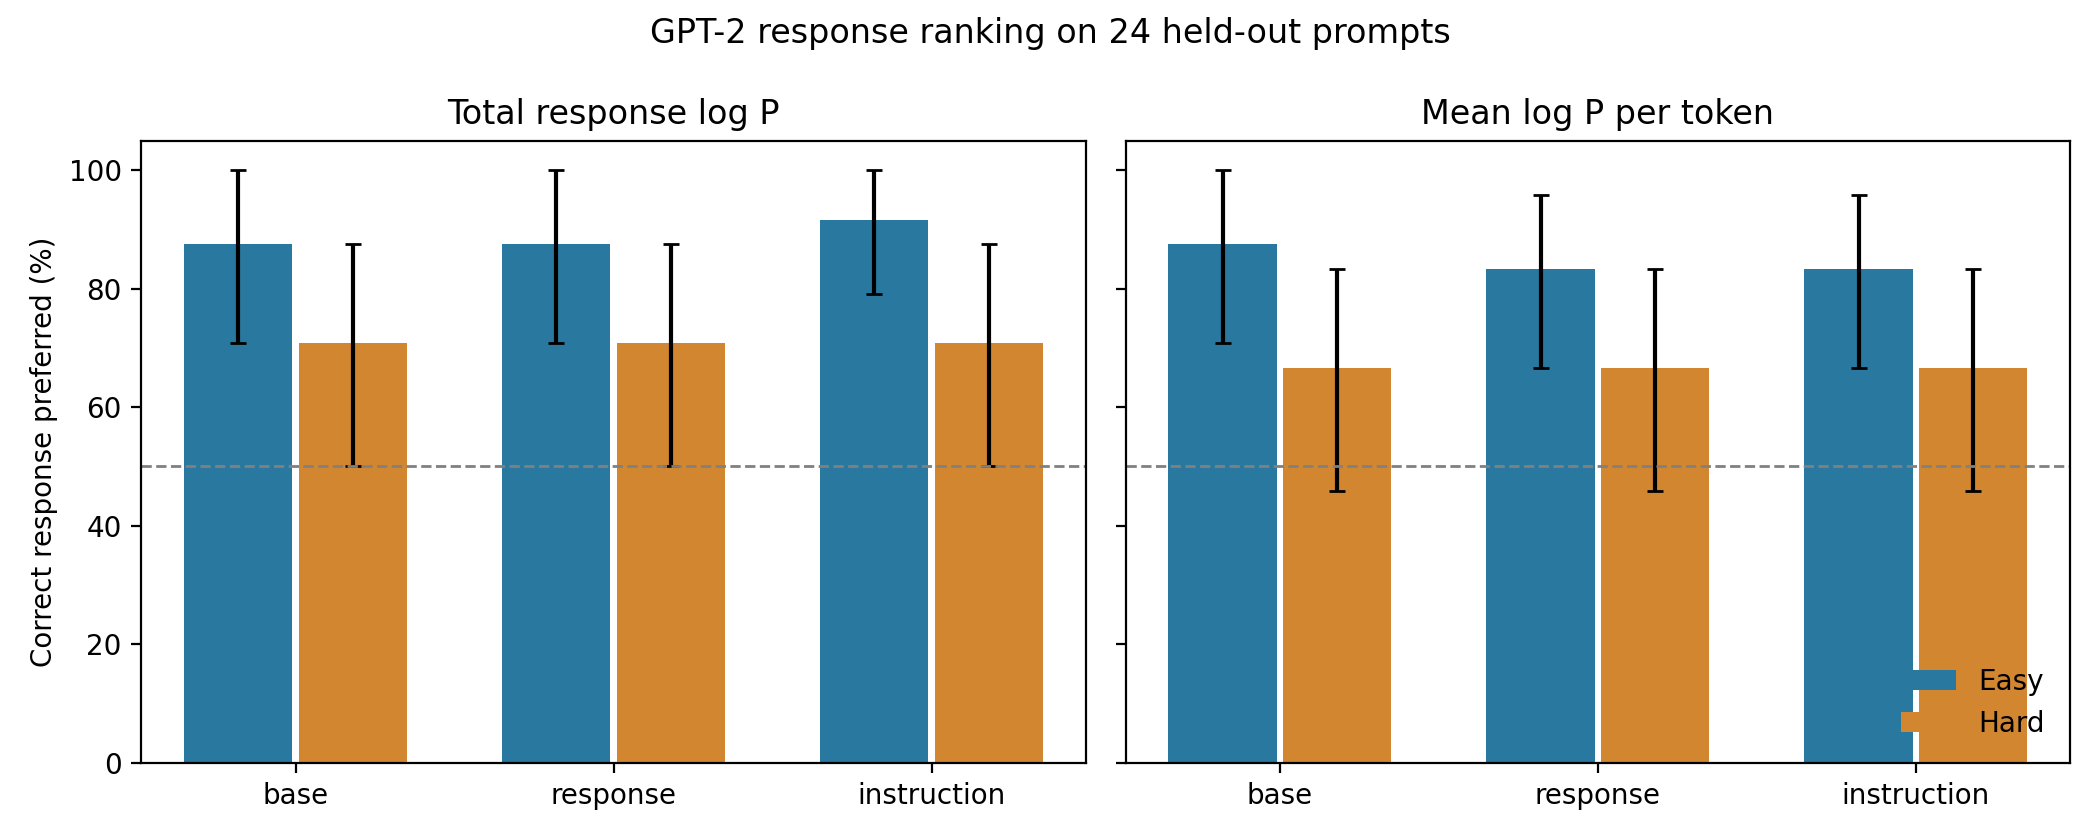
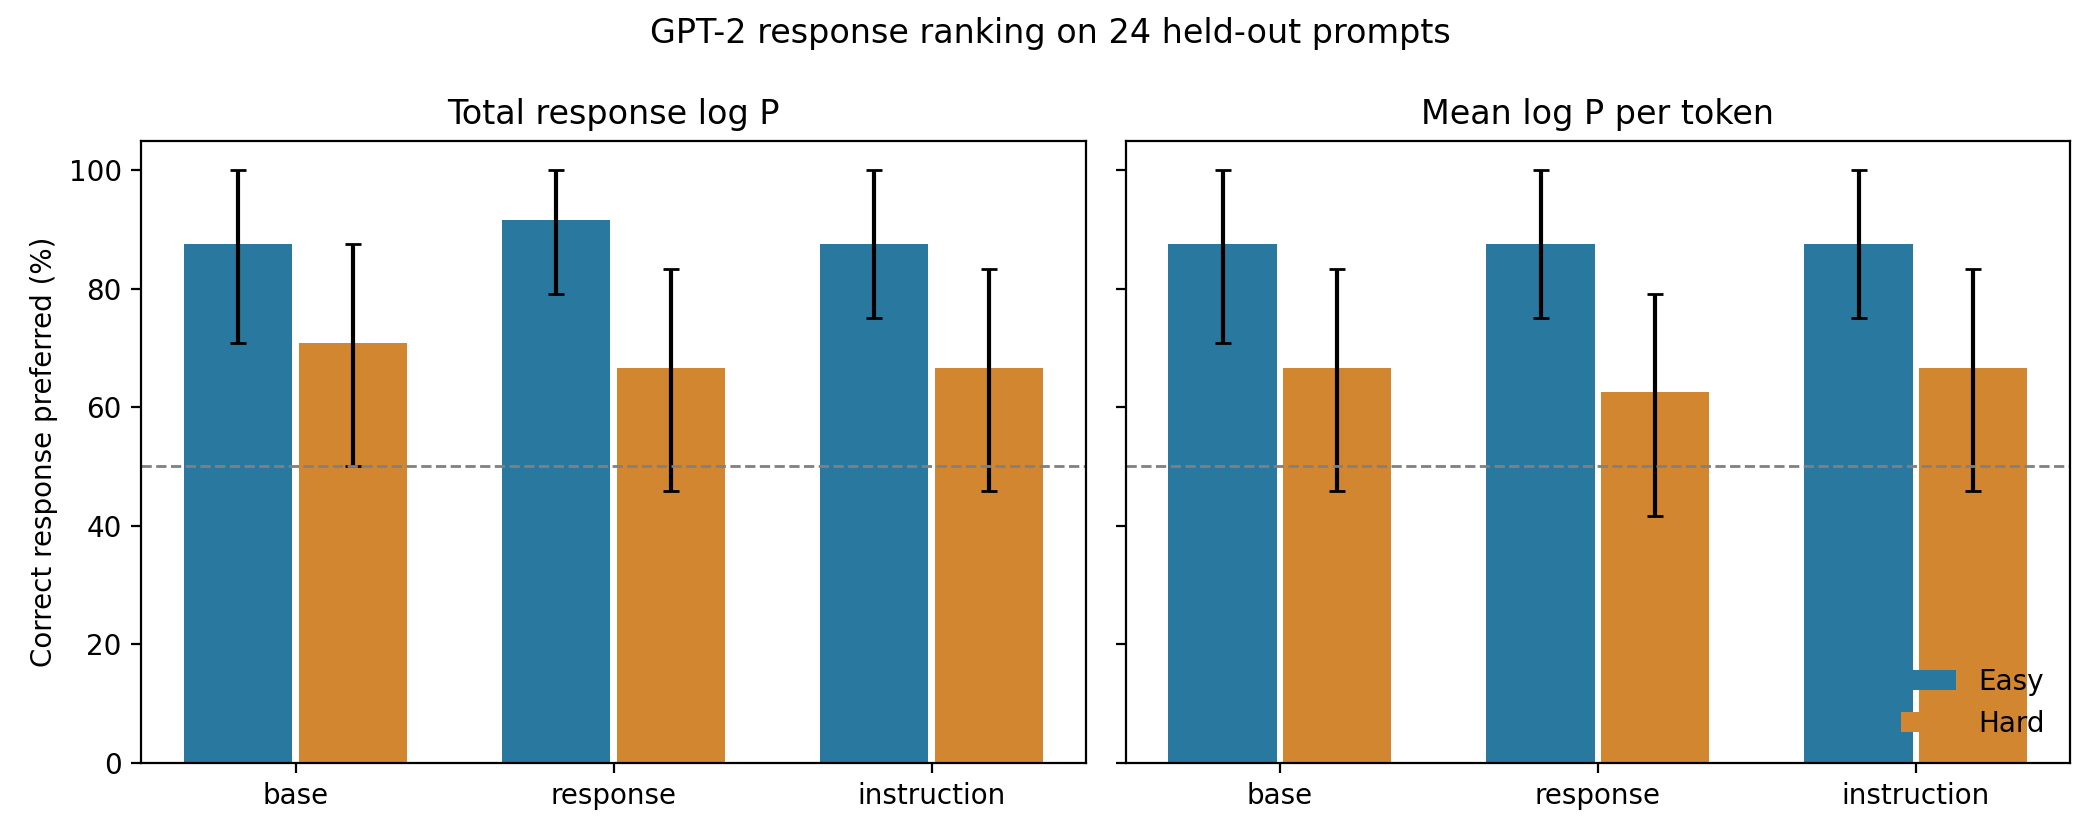
exp: rerun tuning with more updates

diff --git a/probe/report.py b/probe/report.py
@@ -88,18 +88,30 @@ def report(cfg, root, final=False):
     require(not final or ready, "Final reporting requires all three models and approved negatives")
     status = "LLM-adjudicated ranking result" if ready else "PRELIMINARY — ranking evaluation is incomplete"
     output = root / "report"
+    training = {}
+    for condition in ["response", "instruction"]:
+        selection = root / "runs" / condition / "best" / "selection.json"
+        metadata = root / "runs" / condition / "training.json"
+        if selection.exists() and metadata.exists():
+            selected = read_json(selection)
+            run = read_json(metadata)
+            training[condition] = {"updates_completed": run["updates"],
+                                   "selected_update": selected["update"],
+                                   "selected_epoch": selected["epoch"],
+                                   "validation_response_nll": selected["validation_response_nll"]}
     write_json(output / "results.json", {"status": status, "ranking_complete": ready, "experiment_id": manifest["experiment_id"],
-                                         "models": results, "paired_differences": differences,
+                                         "models": results, "training": training, "paired_differences": differences,
                                          "negative_review_hash": digest(read_jsonl(root / "review" / "negatives.jsonl")),
                                          "negative_adjudication_type": review_type,
                                          "negative_adjudication_complete": negatives_complete})
     header = ["# GPT-2 instruction–response matching", "", status, "",
-              "| Checkpoint | Easy: total log P | Hard: total log P | Easy: per token | Hard: per token |",
-              "|---|---|---|---|---|"]
+              "| Checkpoint | Selected update | Easy: total log P | Hard: total log P | Easy: per token | Hard: per token |",
+              "|---|---:|---|---|---|---|"]
     for condition in CONDITIONS:
         r = results.get(condition, {"ranking": {}})
         values = [formatted(r["ranking"].get(key)) for key in ["easy:conditional.sum", "hard:conditional.sum", "easy:conditional.mean", "hard:conditional.mean"]]
-        header.append("| " + " | ".join([condition] + values) + " |")
+        selected_update = str(training[condition]["selected_update"]) if condition in training else "—"
+        header.append("| " + " | ".join([condition, selected_update] + values) + " |")
     split_counts = manifest["split_counts"]
     splits = f"{split_counts['train']} train, {split_counts['validation']} validation, {split_counts['test']} test"
     categories = Counter(r["category"] for r in read_jsonl(root / "data" / "candidates.jsonl"))
@@ -109,11 +121,11 @@ def report(cfg, root, final=False):
 
 **Question.** Does pretrained GPT-2 124M associate instructions with appropriate responses, and does tuning on responses alone change that ranking compared with instruction tuning?
 
-**Setup.** Dolly was cleaned and split by duplicate groups: {splits}. The ranking set contains {cfg['ranking_examples']} prompts across these categories: {category_counts}. Each prompt has one different-category negative and one related same-category negative. Both negatives have response-token length ratio at most {cfg['negative_length_ratio']}. Dataset revision: `{manifest['sources']['dataset_revision']}`; GPT-2 revision: `{manifest['sources']['model_revision']}`. Both tuned models saw the same responses for {cfg['epochs']} {epoch_word}, using AdamW at {cfg['learning_rate']} and effective batch {cfg['effective_batch_size']}. Each checkpoint was selected by validation loss under its own objective.
+**Setup.** Dolly was cleaned and split by duplicate groups: {splits}. The ranking set contains {cfg['ranking_examples']} prompts across these categories: {category_counts}. Each prompt has one different-category negative and one related same-category negative. Both negatives have response-token length ratio at most {cfg['negative_length_ratio']}. Dataset revision: `{manifest['sources']['dataset_revision']}`; GPT-2 revision: `{manifest['sources']['model_revision']}`. Both tuned models saw the same responses for {cfg['epochs']} {epoch_word}, using AdamW at {cfg['learning_rate']} and effective batch {cfg['effective_batch_size']}. Each run completed {training.get('response', {}).get('updates_completed', 'pending')} updates; the table reports the update count of the checkpoint selected by validation loss under each objective.
 
 **Metrics.** Ranking means the correct response has strictly greater likelihood than the alternative. Main scores exclude EOS; EOS-inclusive totals, unconditional scores, conditioning gains, category results, tie rates, and paired differences are in results.json. Brackets are 95% percentile intervals from {cfg['bootstrap_samples']} bootstrap resamples of prompt duplicate groups.
 
-**Limits.** This is a small, one-seed ranking experiment with one short tuning epoch. The response-ranking definition follows [Hewitt et al., §4.2](https://arxiv.org/pdf/2409.14254). Hard negatives were assessed by a recorded LLM adjudicator. Duplicate checks cover the documented lexical threshold and shared-context rules, not every semantic paraphrase or pretraining overlap. Intervals capture sampled-prompt uncertainty, not training-seed variation, adjudicator error, or all dependence from reused negative answers.
+**Limits.** This is a small, one-seed ranking experiment with {cfg['epochs']} tuning {epoch_word}. The response-ranking definition follows [Hewitt et al., §4.2](https://arxiv.org/pdf/2409.14254). Hard negatives were assessed by a recorded LLM adjudicator. Duplicate checks cover the documented lexical threshold and shared-context rules, not every semantic paraphrase or pretraining overlap. Intervals capture sampled-prompt uncertainty, not training-seed variation, adjudicator error, or all dependence from reused negative answers.
 """
     (output / "note.md").write_text("\n".join(header) + methods)
     if results:

diff --git a/artifacts-poc/report/note.md b/artifacts-poc/report/note.md
@@ -2,16 +2,16 @@
 
 LLM-adjudicated ranking result
 
-| Checkpoint | Easy: total log P | Hard: total log P | Easy: per token | Hard: per token |
-|---|---|---|---|---|
-| base | 87.5% [70.8, 100.0] | 70.8% [50.0, 87.5] | 87.5% [70.8, 100.0] | 66.7% [45.8, 83.3] |
-| response | 87.5% [70.8, 100.0] | 70.8% [50.0, 87.5] | 83.3% [66.7, 95.8] | 66.7% [45.8, 83.3] |
-| instruction | 91.7% [79.2, 100.0] | 70.8% [50.0, 87.5] | 83.3% [66.7, 95.8] | 66.7% [45.8, 83.3] |
+| Checkpoint | Selected update | Easy: total log P | Hard: total log P | Easy: per token | Hard: per token |
+|---|---:|---|---|---|---|
+| base | — | 87.5% [70.8, 100.0] | 70.8% [50.0, 87.5] | 87.5% [70.8, 100.0] | 66.7% [45.8, 83.3] |
+| response | 12 | 91.7% [79.2, 100.0] | 66.7% [45.8, 83.3] | 87.5% [75.0, 100.0] | 62.5% [41.7, 79.2] |
+| instruction | 24 | 87.5% [75.0, 100.0] | 66.7% [45.8, 83.3] | 87.5% [75.0, 100.0] | 66.7% [45.8, 83.3] |
 
 **Question.** Does pretrained GPT-2 124M associate instructions with appropriate responses, and does tuning on responses alone change that ranking compared with instruction tuning?
 
-**Setup.** Dolly was cleaned and split by duplicate groups: 24 train, 8 validation, 1360 test. The ranking set contains 24 prompts across these categories: brainstorming 4, classification 4, closed_qa 4, creative_writing 4, general_qa 2, information_extraction 3, open_qa 3. Each prompt has one different-category negative and one related same-category negative. Both negatives have response-token length ratio at most 1.25. Dataset revision: `bdd27f4d94b9c1f951818a7da7fd7aeea5dbff1a`; GPT-2 revision: `607a30d783dfa663caf39e06633721c8d4cfcd7e`. Both tuned models saw the same responses for 1 epoch, using AdamW at 0.0001 and effective batch 4. Each checkpoint was selected by validation loss under its own objective.
+**Setup.** Dolly was cleaned and split by duplicate groups: 24 train, 8 validation, 1360 test. The ranking set contains 24 prompts across these categories: brainstorming 4, classification 4, closed_qa 4, creative_writing 4, general_qa 2, information_extraction 3, open_qa 3. Each prompt has one different-category negative and one related same-category negative. Both negatives have response-token length ratio at most 1.25. Dataset revision: `bdd27f4d94b9c1f951818a7da7fd7aeea5dbff1a`; GPT-2 revision: `607a30d783dfa663caf39e06633721c8d4cfcd7e`. Both tuned models saw the same responses for 2 epochs, using AdamW at 0.0001 and effective batch 2. Each run completed 24 updates; the table reports the update count of the checkpoint selected by validation loss under each objective.
 
 **Metrics.** Ranking means the correct response has strictly greater likelihood than the alternative. Main scores exclude EOS; EOS-inclusive totals, unconditional scores, conditioning gains, category results, tie rates, and paired differences are in results.json. Brackets are 95% percentile intervals from 1000 bootstrap resamples of prompt duplicate groups.
 
-**Limits.** This is a small, one-seed ranking experiment with one short tuning epoch. The response-ranking definition follows [Hewitt et al., §4.2](https://arxiv.org/pdf/2409.14254). Hard negatives were assessed by a recorded LLM adjudicator. Duplicate checks cover the documented lexical threshold and shared-context rules, not every semantic paraphrase or pretraining overlap. Intervals capture sampled-prompt uncertainty, not training-seed variation, adjudicator error, or all dependence from reused negative answers.
+**Limits.** This is a small, one-seed ranking experiment with 2 tuning epochs. The response-ranking definition follows [Hewitt et al., §4.2](https://arxiv.org/pdf/2409.14254). Hard negatives were assessed by a recorded LLM adjudicator. Duplicate checks cover the documented lexical threshold and shared-context rules, not every semantic paraphrase or pretraining overlap. Intervals capture sampled-prompt uncertainty, not training-seed variation, adjudicator error, or all dependence from reused negative answers.

diff --git a/RESULTS.md b/RESULTS.md
@@ -12,11 +12,11 @@ P(\text{correct response}\mid\text{instruction}) > P(\text{hard negative}\mid\te
 
 ## Result table
 
-| Model | Hard, total log P | Hard, per token | Easy, total log P | Easy, per token |
-|---|---:|---:|---:|---:|
-| Pretrained GPT-2 | 17/24 (70.8%) | 16/24 (66.7%) | 21/24 (87.5%) | 21/24 (87.5%) |
-| Response-only tuned | 17/24 (70.8%) | 16/24 (66.7%) | 21/24 (87.5%) | 20/24 (83.3%) |
-| Instruction-tuned | 17/24 (70.8%) | 16/24 (66.7%) | 22/24 (91.7%) | 20/24 (83.3%) |
+| Model | Selected update | Hard, total log P | Hard, per token | Easy, total log P | Easy, per token |
+|---|---:|---:|---:|---:|---:|
+| Pretrained GPT-2 | — | 17/24 (70.8%) | 16/24 (66.7%) | 21/24 (87.5%) | 21/24 (87.5%) |
+| Response-only tuned | 12 | 16/24 (66.7%) | 15/24 (62.5%) | 22/24 (91.7%) | 21/24 (87.5%) |
+| Instruction-tuned | 24 | 16/24 (66.7%) | 16/24 (66.7%) | 21/24 (87.5%) | 21/24 (87.5%) |
 
 ![Response ranking using total and per-token log probability](artifacts-poc/report/ranking.png)
 
@@ -24,12 +24,12 @@ The total log probability comparison uses the response-ranking definition in [He
 
 ## Interpretation
 
-GPT-2 small ranked the supplied correct answer above the hard negative on two thirds of this tiny test set. That behavior was already present before either tuning run.
+GPT-2 small ranked the supplied correct answer above the hard negative on most of this tiny test set before tuning.
 
-There was no aggregate difference between response-only and instruction tuning on hard negatives: both got 17 of 24 using total log probability and 16 of 24 using per-token log probability. On the per-token measure, each model won one item the other lost. The paired bootstrap interval for their difference was −12.5 to +12.5 percentage points. The sample gives no evidence that one tuning method improved ranking more than the other.
+After tuning, both models got 16 of 24 hard negatives using total log probability. Instruction tuning got one more item than response-only tuning under per-token scoring (16 versus 15). The paired bootstrap interval for response-only minus instruction tuning on that measure was −12.5 to 0 percentage points. These 24 items do not establish a reliable advantage for either method.
 
 ## Scope
 
-This run used one seed, GPT-2 small, 24 ranking items, and one epoch of tuning. Each tuned model received six optimizer updates. Training optimizes response likelihood, which need not change the win/loss decision on a particular pair. The sample is too small to establish that the methods have equal ranking performance beyond these items. The LLM judgments for hard negatives are recorded in the repository.
+This run used one seed, GPT-2 small, 24 ranking items, and two epochs of tuning. Both tuned models completed 24 optimizer updates on the same responses. Validation selected the response-only checkpoint after 12 updates and the instruction-tuned checkpoint after 24. Training optimizes response likelihood, which need not improve pairwise accuracy. The LLM judgments for hard negatives are recorded in the repository.
 
 For the full metric table and bootstrap intervals, see [the detailed note](artifacts-poc/report/note.md) and [results JSON](artifacts-poc/report/results.json).

diff --git a/README.md b/README.md
@@ -6,14 +6,14 @@ Hewitt et al. define response ranking as “assigning a higher likelihood to the
 
 See **[RESULTS.md](RESULTS.md)** for the result table, interpretation, and chart.
 
-In this 24-item run, response-only and instruction tuning tied on hard-negative ranking: **17/24 (70.8%)** using total log probability and **16/24 (66.7%)** per token.
+With longer tuning, both models completed 24 updates. Validation selected the response-only checkpoint at update 12 and the instruction-tuned checkpoint at update 24. On hard negatives, both scored **16/24 (66.7%)** using total log probability; per-token scores were **15/24** and **16/24**, respectively.
 
 ## What I ran
 
 - Model: GPT-2 small (124M)
 - Data: Databricks Dolly 15K
 - Conditions: pretrained, response-only fine tuning, instruction fine tuning
-- Fine tuning: 24 training examples, 1 epoch, same responses in both tuning conditions
+- Fine tuning: 24 training examples, 2 epochs, effective batch 2, same responses in both tuning conditions
 - Evaluation: 24 held-out response-ranking items
 
 An LLM checked the hard negatives for accidental correctness. Its judgments are labeled in the data.
@@ -27,7 +27,7 @@ python3 -m venv .venv
 .venv/bin/python -u -m probe --config config_poc.json --root artifacts-poc --device cpu run
 ```
 
-The checked-in data and negative judgments fix the evaluation set. The setup command downloads the pinned GPT-2 checkpoint. The original local run took about 6½ minutes; this configuration evaluates response ranking and writes the report to `artifacts-poc/report/`.
+The checked-in data and negative judgments fix the evaluation set. The setup command downloads the pinned GPT-2 checkpoint. This ranking run took about six minutes locally and writes the report to `artifacts-poc/report/`.
 
 ## Project layout
 
